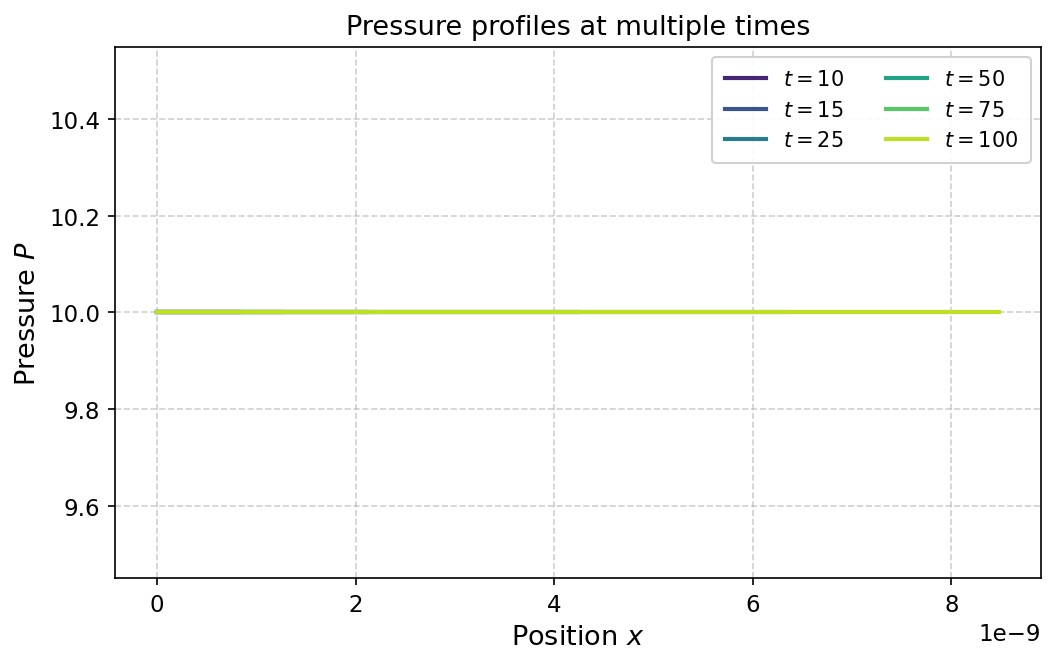
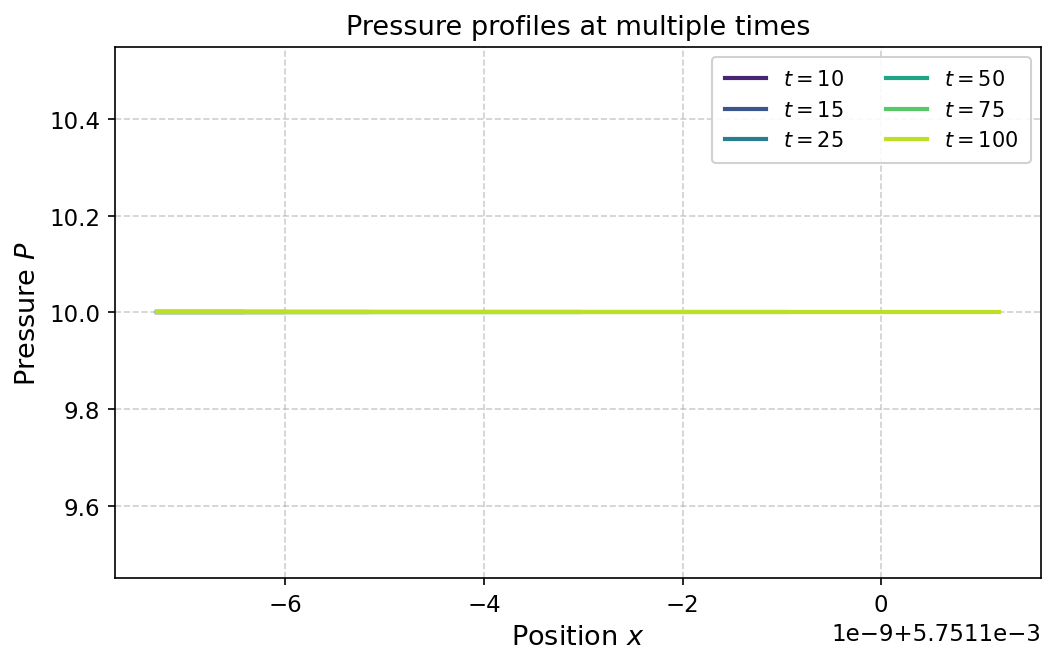
Comparison with working mass

diff --git a/hydro_sim/simulations/driven_shock_sim.py b/hydro_sim/simulations/driven_shock_sim.py
@@ -10,6 +10,7 @@ from dataclasses import dataclass
 class ShockHistory:
     t: np.ndarray          # (K,)
     x: np.ndarray          # (K, Ncells) cell centers
+    m: np.ndarray          # (K, Ncells) mass coordinate
     rho: np.ndarray        # (K, Ncells)
     p: np.ndarray          # (K, Ncells)
     u: np.ndarray          # (K, Ncells)
@@ -24,20 +25,21 @@ def simulate_driven_shock(case, *, Ncells, CFL, sigma_visc, store_every=1000):
 
     # ---- history buffers ----
     times = []
-    Xs, RHOs, Ps, Us, Es = [], [], [], [], []
+    Xs, Ms, RHOs, Ps, Us, Es = [], [], [], [], [], []
 
     def store_frame():
         x_cells = 0.5 * (state.x[:-1] + state.x[1:])
         u_cells = 0.5 * (state.u[:-1] + state.u[1:])
+        m_coordinate = np.cumsum(m_cells)
         times.append(state.t)
         Xs.append(x_cells.copy())
+        Ms.append(m_coordinate.copy())
         RHOs.append(state.rho.copy())
         Ps.append(state.p.copy())
         Us.append(u_cells.copy())
         Es.append(state.e.copy())
-
+    
     store_frame()
-
     dt_prev = np.inf
     step = 0
     # use a tqdl progress bar
@@ -73,6 +75,7 @@ def simulate_driven_shock(case, *, Ncells, CFL, sigma_visc, store_every=1000):
     history = ShockHistory(
         t=np.array(times),
         x=np.stack(Xs, axis=0),
+        m=np.stack(Ms, axis=0),
         rho=np.stack(RHOs, axis=0),
         p=np.stack(Ps, axis=0),
         u=np.stack(Us, axis=0),

diff --git a/shussman_shock_solver/plot_shock_profiles.py b/shussman_shock_solver/plot_shock_profiles.py
@@ -202,28 +202,19 @@ def main():
         class Args:
             npz = "project_3/shussman_shock_solver/shock_profiles.npz"
             quantity = "P"
-            xaxis = "x"
-            save = None
+            xaxis = "m"
+            save = "project_3/shussman_shock_solver/shock_profiles_P_vs_m.png"
             no_show = False
-            title = None
+            title = "Pressure profiles at multiple times"
         args = Args()
-
-    plot_profiles(
-        args.npz,
-        quantity=args.quantity,
-        xaxis=args.xaxis,
-        save=args.save,
-        show=(not args.no_show),
-        title=args.title,
-    )
 
     # save a test figure
     plot_profiles(
         args.npz,
         quantity="P",
-        xaxis="x",
-        save="project_3/shussman_shock_solver/shock_profiles_P_vs_x.png",
-        show=False,
+        xaxis="m",
+        save="project_3/shussman_shock_solver/shock_profiles_P_vs_m.png",
+        show=(not args.no_show),
         title="Pressure profiles at multiple times",
     )
 

diff --git a/comparison/compare_shock_plots.py b/comparison/compare_shock_plots.py
@@ -91,12 +91,7 @@ def load_hydro_history(history) -> SimulationData:
     for k in range(nt):
         x = history.x[k]
         rho = history.rho[k]
-        
-        # Compute mass coordinate (cumulative mass from left)
-        dx = np.diff(np.concatenate([[0], x, [x[-1]]]))
-        dx = 0.5 * (dx[:-1] + dx[1:])  # approximate cell widths
-        dm = rho * dx
-        m = np.cumsum(dm) - 0.5 * dm  # cell-centered mass coordinate
+        m = history.m[k]
         
         m_list.append(m)
         x_list.append(x)
@@ -162,6 +157,9 @@ def plot_comparison_single_time(
         x_ref = ref_data.x[ref_idx]
         xlabel = r"Position $x$ [cm]"
     
+    print(ref_data.times[ref_idx])
+    print(sim_data.times[sim_idx])
+
     # Create figure
     fig, axes = plt.subplots(2, 2, figsize=(12, 8), sharex=True)
     ax_rho, ax_p = axes[0, 0], axes[0, 1]

diff --git a/shussman_shock_solver/run_shock_solver.py b/shussman_shock_solver/run_shock_solver.py
@@ -30,7 +30,7 @@ def compute_shock_profiles(mat: Material, P0: float, Pw, times=None, *, save_npz
     Pw = np.asarray(Pw, float)
 
     if times is None:
-        times = np.array([0.1, 0.15, 0.25, 0.5, 0.75, 1.0], float) * 100.0
+        times = np.array([0.1, 0.15, 0.25, 0.5, 0.75, 1.0], float) * 100.0e-9
     else:
         times = np.asarray(times, float)
 
@@ -82,7 +82,7 @@ def compute_shock_profiles(mat: Material, P0: float, Pw, times=None, *, save_npz
 
 
         # My version of m_prof and P_prof
-        m_prof = t * P0**(1/2) * mat.V0**(-1/2) * (ti*(10**(-9)))**(1+Pw2)
+        m_prof = t * P0**(1/2) * mat.V0**(-1/2) * (ti)**(1+Pw2)
         P_prof = P0 * (ti**Pw2) * P_tilde
 
         u_prof = (ufront * ((P0_eff * 1e12) ** uw0) * (ti ** uw2)) * (u_tilde / utilda / 1e5)

diff --git a/comparison/run_comparison.py b/comparison/run_comparison.py
@@ -155,9 +155,9 @@ def get_default_args():
         skip_solver = False
         npz = None
         P0 = 10.0
-        tau = 0.0
+        tau = 1.0
         t_end = 100e-9
-        N = 501
+        N = 500
         rho0 = 19.32
     return Args()
 
